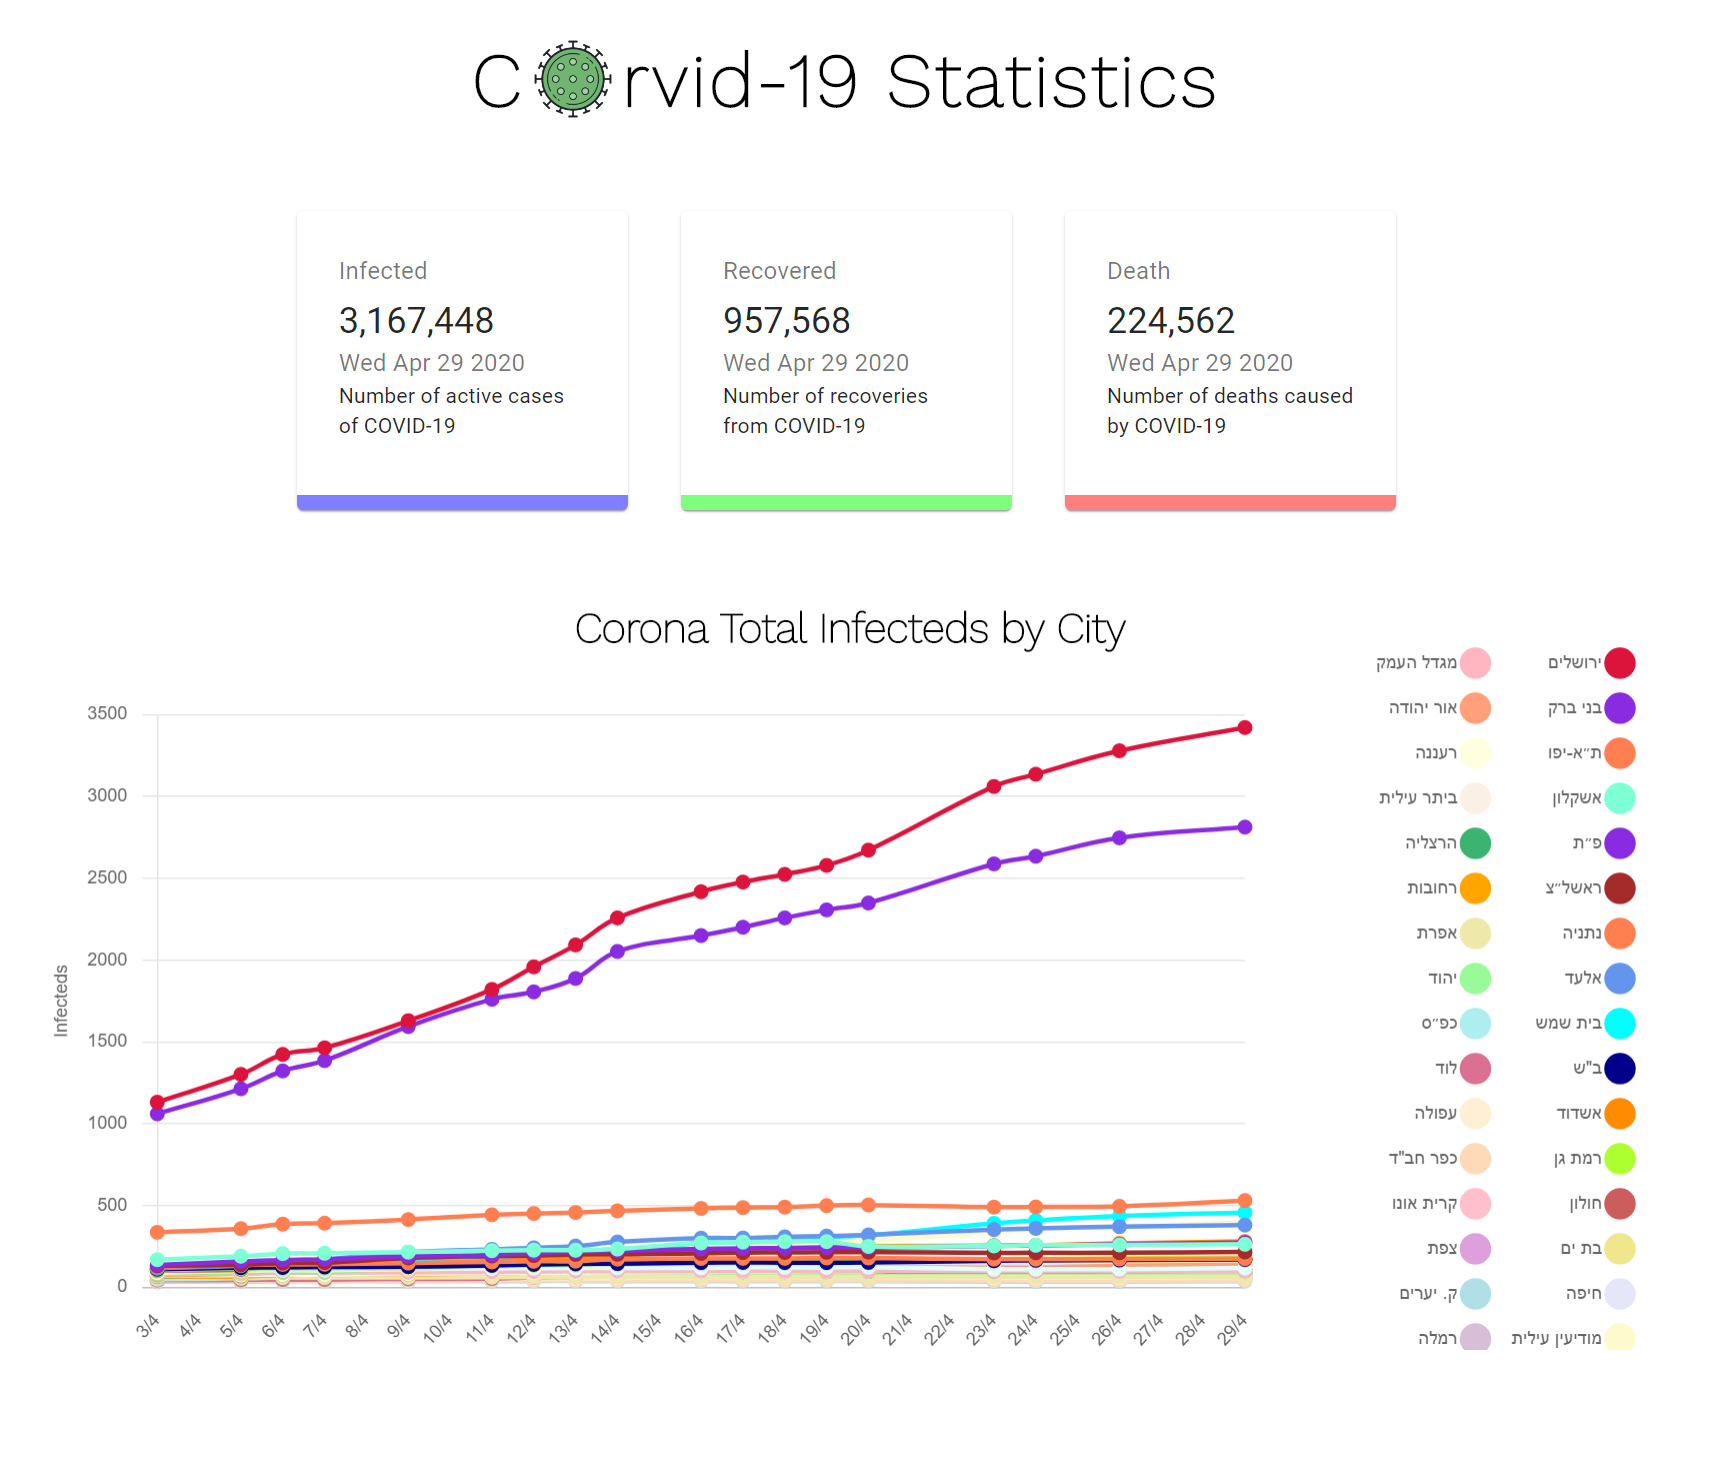
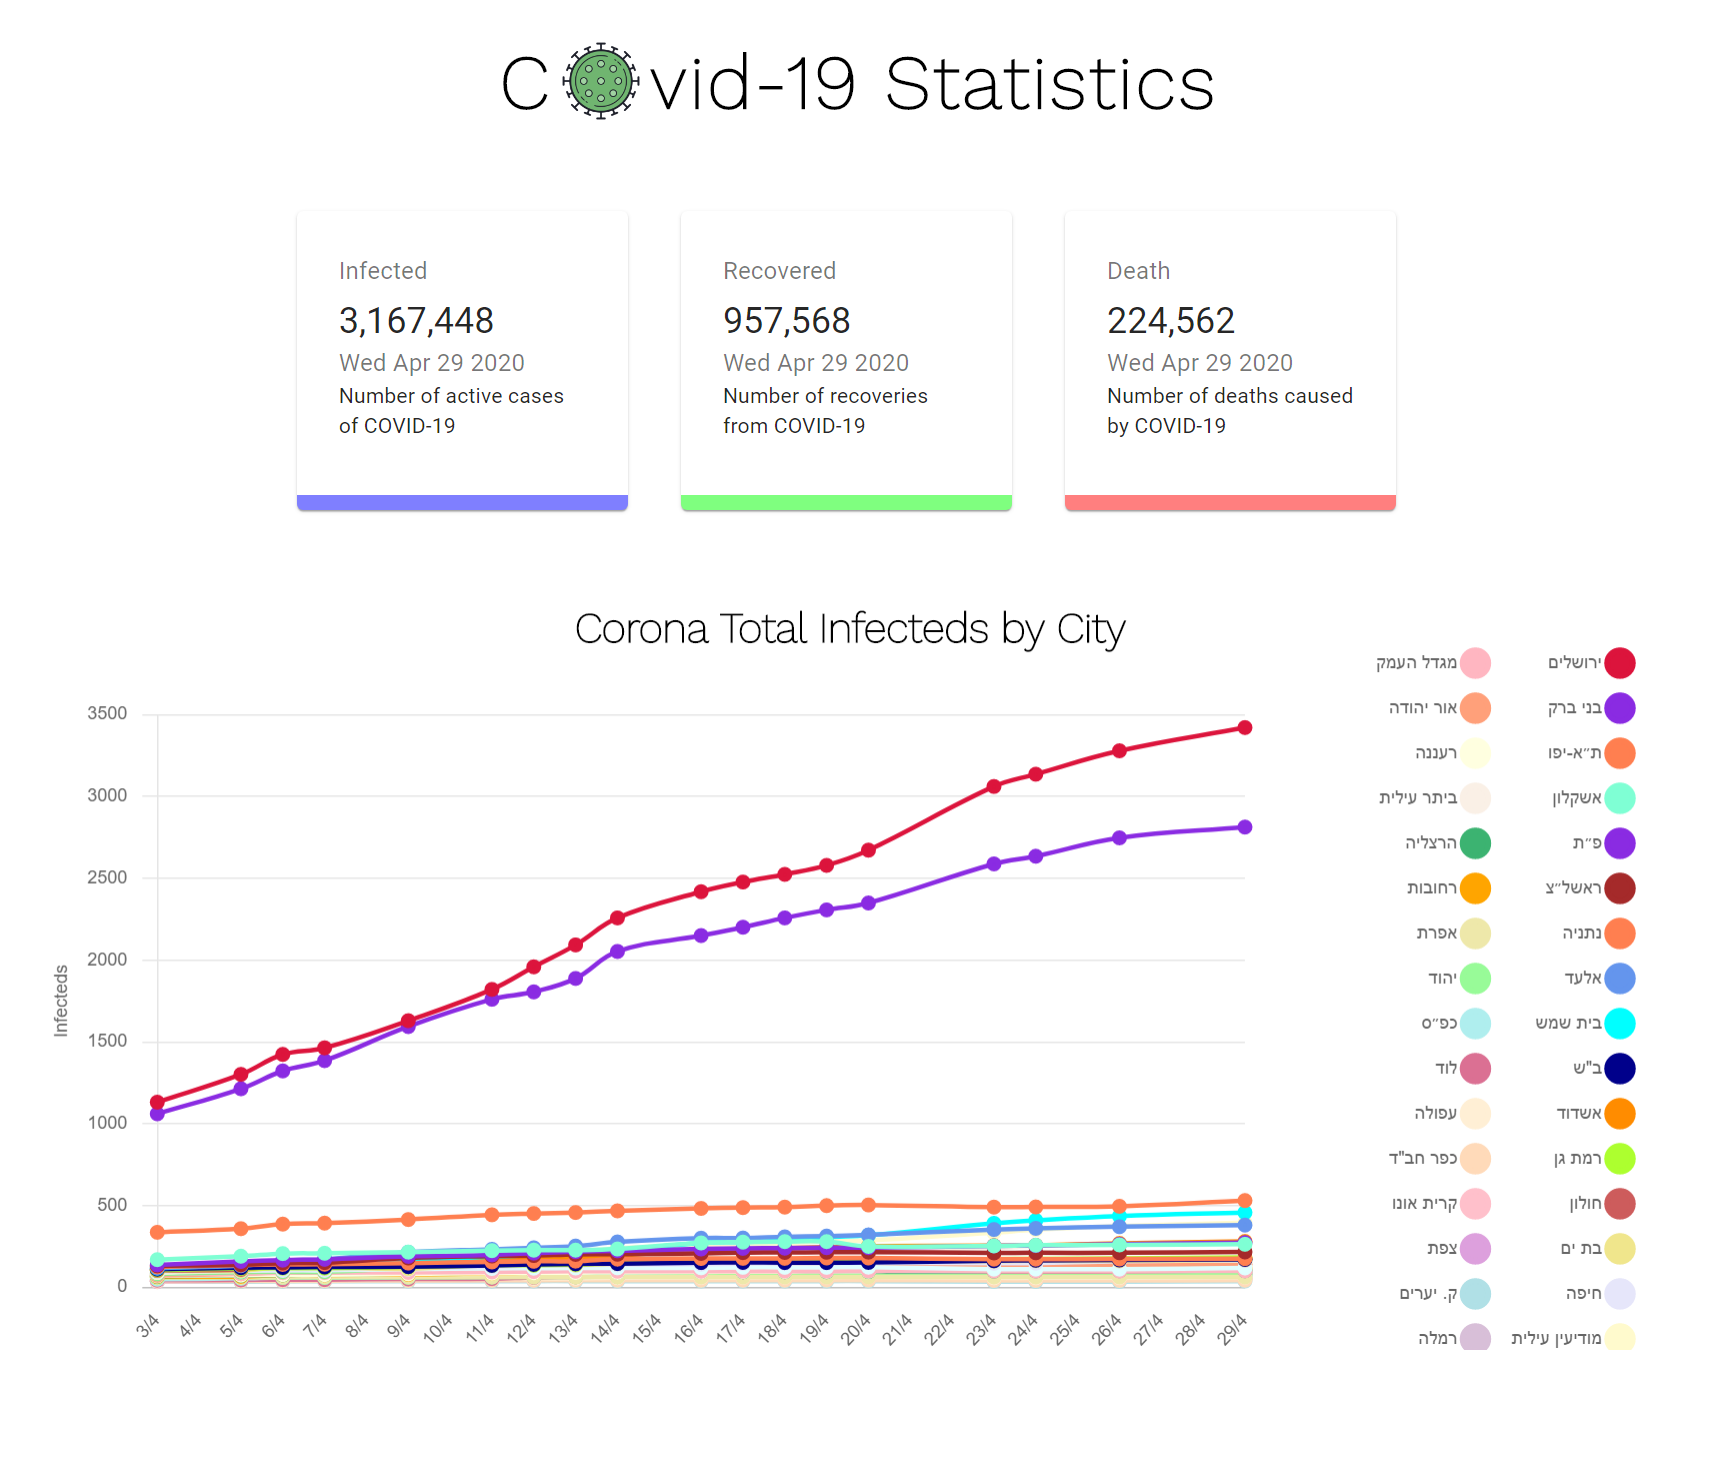
typo fixes

Changed region(s): [[0.2786, 0.0308, 0.712, 0.0924]]

diff --git a/src/App.tsx b/src/App.tsx
@@ -24,7 +24,7 @@ export default class App extends React.Component<{}, IAppState> {
 	public render() {
 		return (
 			<div className={styles.container}>
-				<h2>C<div className={styles.space}><div className={styles.img}></div></div>rvid-19 Statistics</h2>
+				<h2>C<div className={styles.space}><div className={styles.img}></div></div>vid-19 Statistics</h2>
 				{this.state && this.state.globalData && this.state.dailyData ? 
 					<React.Fragment>
 						<Cards data={this.state.globalData} />

diff --git a/README.md b/README.md
@@ -1,4 +1,4 @@
-# React Corvid 19 Tracker
+# React Covid-19 Tracker
 
 A React JS application to Track Corona infected people using Material UI and Chart JS
 
